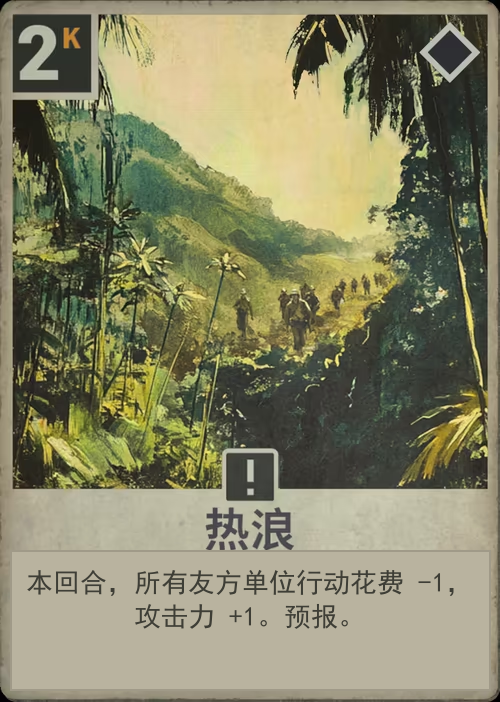
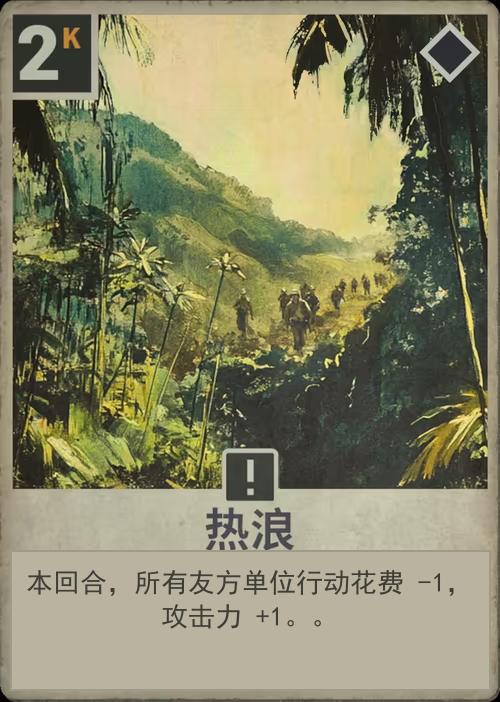
Correct weather card text and variant art

Changed region(s): [[0.27, 0.8376, 0.69, 0.8974]]

diff --git a/code/v0.1/mods/kards/code/cards/Neutral/card_tropical_storm_damage.py b/code/v0.1/mods/kards/code/cards/Neutral/card_tropical_storm_damage.py
@@ -60,7 +60,7 @@ CARD_DATA = CardData(
     country=Country.NEUTRAL,
     cost=4,
     display_name="热带风暴",
-    text="对一个敌方目标造成 3 点伤害，随机对一个敌方单位造成 2 点伤害，再随机对一个敌方单位造成 1 点伤害。预报。",
+    text="对一个敌方目标造成 3 点伤害，随机对一个敌方单位造成 2 点伤害，再随机对一个敌方单位造成 1 点伤害。。",
     art="tropical_storm_damage.png",
     rare=Rarity.STANDARD,
     keywords=[WEATHER],

diff --git a/code/v0.1/mods/kards/code/cards/Neutral/card_heatwave_damage.py b/code/v0.1/mods/kards/code/cards/Neutral/card_heatwave_damage.py
@@ -51,7 +51,7 @@ CARD_DATA = CardData(
     country=Country.NEUTRAL,
     cost=2,
     display_name="热浪",
-    text="本回合，友方单位部署时，随机对一个敌方目标造成等同于自身攻击力的伤害。预报。",
+    text="本回合，友方单位部署时，随机对一个敌方目标造成等同于自身攻击力的伤害。。",
     art="heatwave_damage.png",
     rare=Rarity.STANDARD,
     keywords=[WEATHER],

diff --git a/code/v0.1/mods/kards/code/cards/Neutral/card_scorching_sun_air.py b/code/v0.1/mods/kards/code/cards/Neutral/card_scorching_sun_air.py
@@ -59,7 +59,7 @@ CARD_DATA = CardData(
     country=Country.NEUTRAL,
     cost=6,
     display_name="骄阳",
-    text="本回合，所有友方空军行动花费为 0，攻击时也对敌方总部造成伤害。预报。",
+    text="本回合，所有友方空军行动花费为 0，攻击时也对敌方总部造成伤害。。",
     art="scorching_sun_air.png",
     rare=Rarity.STANDARD,
     keywords=[WEATHER],

diff --git a/code/v0.1/mods/kards/code/cards/Neutral/card_cyclone_single.py b/code/v0.1/mods/kards/code/cards/Neutral/card_cyclone_single.py
@@ -64,7 +64,7 @@ CARD_DATA = CardData(
     country=Country.NEUTRAL,
     cost=6,
     display_name="旋风",
-    text="对一个单位造成 6 点伤害，对其相邻目标（含 HQ）造成 2 点伤害。预报。",
+    text="对一个单位造成 6 点伤害，对其相邻目标（含 HQ）造成 2 点伤害。。",
     art="cyclone_single.png",
     rare=Rarity.STANDARD,
     keywords=[WEATHER],

diff --git a/code/v0.1/mods/kards/code/cards/Neutral/card_tropical_storm.py b/code/v0.1/mods/kards/code/cards/Neutral/card_tropical_storm.py
@@ -41,7 +41,7 @@ CARD_DATA = CardData(
     country=Country.NEUTRAL,
     cost=4,
     display_name="热带风暴",
-    text="双方将所有手牌洗入卡组，抽取等同于最大洗入数量的卡牌。预报。",
+    text="双方将所有手牌洗入卡组，抽取等同于最大洗入数量的卡牌。。",
     art="tropical_storm.png",
     rare=Rarity.STANDARD,
     keywords=[WEATHER],

diff --git a/code/v0.1/mods/kards/code/cards/Neutral/card_monsoon_set_stats.py b/code/v0.1/mods/kards/code/cards/Neutral/card_monsoon_set_stats.py
@@ -39,7 +39,7 @@ CARD_DATA = CardData(
     country=Country.NEUTRAL,
     cost=6,
     display_name="季风雨",
-    text="所有单位攻击力、行动花费、防御力和最大防御力变为 2。预报。",
+    text="所有单位攻击力、行动花费、防御力和最大防御力变为 2。。",
     art="monsoon_set_stats.png",
     rare=Rarity.STANDARD,
     keywords=[WEATHER],

diff --git a/code/v0.1/mods/kards/code/cards/Neutral/card_tropical_storm_retreat.py b/code/v0.1/mods/kards/code/cards/Neutral/card_tropical_storm_retreat.py
@@ -46,7 +46,7 @@ CARD_DATA = CardData(
     country=Country.NEUTRAL,
     cost=4,
     display_name="热带风暴",
-    text="随机撤退一个敌方单位，然后随机消灭一个敌方单位。预报。",
+    text="随机撤退一个敌方单位，然后随机消灭一个敌方单位。。",
     art="tropical_storm_retreat.png",
     rare=Rarity.STANDARD,
     keywords=[WEATHER],

diff --git a/code/v0.1/mods/kards/code/cards/Neutral/card_monsoon_infantry.py b/code/v0.1/mods/kards/code/cards/Neutral/card_monsoon_infantry.py
@@ -44,7 +44,7 @@ CARD_DATA = CardData(
     country=Country.NEUTRAL,
     cost=6,
     display_name="季风雨",
-    text="所有友方步兵 +2 攻击力，+2 防御力，并能再次行动。预报。",
+    text="所有友方步兵 +2 攻击力，+2 防御力，并能再次行动。。",
     art="monsoon_infantry.png",
     rare=Rarity.STANDARD,
     keywords=[WEATHER],

diff --git a/code/v0.1/mods/kards/code/cards/Neutral/card_torrential_rain.py b/code/v0.1/mods/kards/code/cards/Neutral/card_torrential_rain.py
@@ -37,7 +37,7 @@ CARD_DATA = CardData(
     country=Country.NEUTRAL,
     cost=4,
     display_name="骤雨",
-    text="友方步兵和总部 +3 防御力，其他友方单位 +2 防御力。预报。",
+    text="友方步兵和总部 +3 防御力，其他友方单位 +2 防御力。。",
     art="torrential_rain.png",
     rare=Rarity.STANDARD,
     keywords=[WEATHER],

diff --git a/code/v0.1/mods/kards/code/cards/Neutral/card_jungle_fever_summon.py b/code/v0.1/mods/kards/code/cards/Neutral/card_jungle_fever_summon.py
@@ -37,7 +37,7 @@ CARD_DATA = CardData(
     country=Country.NEUTRAL,
     cost=4,
     display_name="丛林热",
-    text="召集友方卡组顶单位，将其压制，直到回合结束。预报。",
+    text="召集友方卡组顶单位，将其压制，直到回合结束。。",
     art="jungle_fever_summon.png",
     rare=Rarity.STANDARD,
     keywords=[WEATHER],

diff --git a/code/v0.1/mods/kards/code/cards/Neutral/card_scorching_sun.py b/code/v0.1/mods/kards/code/cards/Neutral/card_scorching_sun.py
@@ -36,7 +36,7 @@ CARD_DATA = CardData(
     country=Country.NEUTRAL,
     cost=6,
     display_name="骄阳",
-    text="将手中所有单位加入战场，将其压制直到回合结束。预报。",
+    text="将手中所有单位加入战场，将其压制直到回合结束。。",
     art="scorching_sun.png",
     rare=Rarity.STANDARD,
     keywords=[WEATHER],

diff --git a/code/v0.1/mods/kards/code/cards/Neutral/card_heatwave.py b/code/v0.1/mods/kards/code/cards/Neutral/card_heatwave.py
@@ -37,7 +37,7 @@ CARD_DATA = CardData(
     country=Country.NEUTRAL,
     cost=2,
     display_name="热浪",
-    text="所有陆军 +2 攻击力，空军 +3 攻击力，直到回合结束。预报。",
+    text="所有陆军 +2 攻击力，空军 +3 攻击力，直到回合结束。。",
     art="heatwave.png",
     rare=Rarity.STANDARD,
     keywords=[WEATHER],
